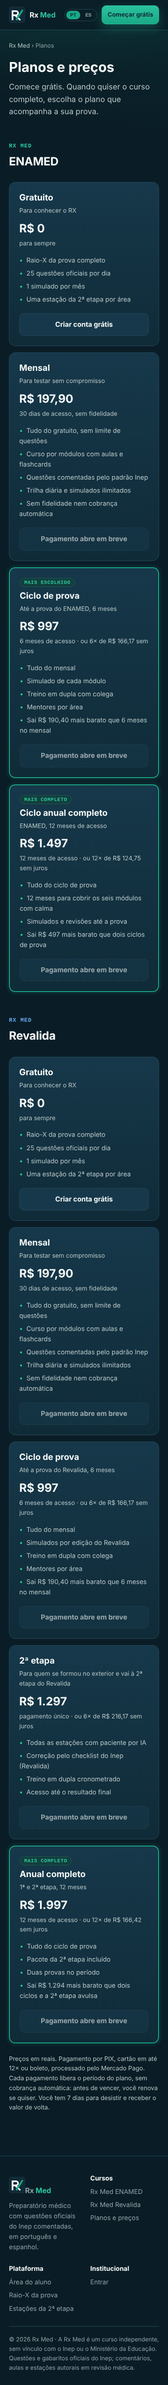
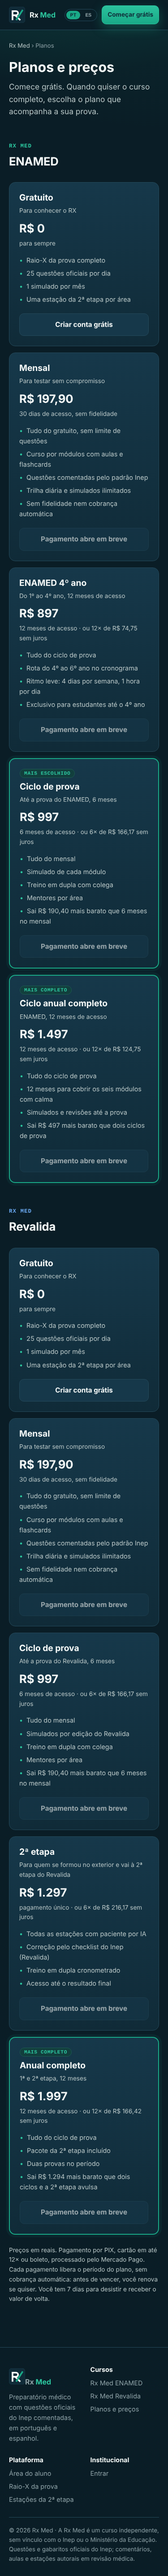
ENAMED 4º ano: rota no cronograma, plano próprio e seção no site
- Objetivo do aluno no cronograma (ENAMED 6º ano, ENAMED 4º ano, Revalida), definido pela ficha do cadastro
- 4º ano: ritmo leve sugerido, aulas na ordem de incidência e painel da rota do 4º ao 6º ano com metas
- Plano ENAMED 4º ano (12 meses, R$ 897, até 12×), só para quem está do 1º ao 4º ano; checado no servidor
- /api/eu informa a etapa; site: seção sobre a MP 1.370/2026, plano nas grades e perguntas frequentes

Claude-Session: https://claude.ai/code/session_01XC3RWuP12k3CEFXbjwtph3

diff --git a/app/src/telas/Cronograma.jsx b/app/src/telas/Cronograma.jsx
@@ -3,7 +3,8 @@
 // em que vencem, o atraso de ontem volta hoje e tudo cabe no tempo que o aluno disse ter.
 import { useState, useMemo } from '../react.js';
 import { useApp, Icone } from '../componentes.jsx';
-import { montarSemana, configDoAluno, CONFIG_PADRAO } from '../cronograma.js';
+import { montarSemana, configDoAluno, CONFIG_PADRAO, OBJETIVOS, rotaQuartoAno } from '../cronograma.js';
+import { modulosDoCurso } from '../modulos.js';
 import { diasAte } from '../trilha.js';
 import { useTrilha, iniciarPlano } from './Trilha.jsx';
 import { DIA, plural } from '../util.js';
@@ -65,11 +66,17 @@ function Configurar({ fechar }) {
   const [metaAcerto, setMetaAcerto] = useState(cfg.metaAcerto);
   const [metaDiaria, setMetaDiaria] = useState(progresso.trilha.metaDiaria || 20);
   const [dataProva, setDataProva] = useState(progresso.trilha.dataProva || '');
+  const [objetivo, setObjetivo] = useState(progresso.trilha.objetivo || 'enamed6');
+  const escolherObjetivo = (o) => {
+    setObjetivo(o);
+    const r = OBJETIVOS[o].ritmo;
+    if (r) { setDias(r.diasEstudo); setMinutos(r.minutosDia); setMetaDiaria(r.metaDiaria); setMetaAcerto(r.metaAcerto); }
+  };
   const alternar = (d) => setDias((x) => (x.includes(d) ? x.filter((y) => y !== d) : [...x, d].sort()));
   const salvar = () => {
     despachar({ tipo: 'configurarTrilha', dados: {
       cronograma: { ...(progresso.trilha.cronograma || {}), diasEstudo: dias.length ? dias : CONFIG_PADRAO.diasEstudo, minutosDia: minutos, metaAcerto, desde: progresso.trilha.cronograma?.desde || Date.now() },
-      metaDiaria, dataProva, ...(metaDiaria !== progresso.trilha.metaDiaria ? { plano: null } : {}),
+      metaDiaria, dataProva, objetivo, ...(metaDiaria !== progresso.trilha.metaDiaria ? { plano: null } : {}),
     } });
     fechar();
   };
@@ -78,6 +85,13 @@ function Configurar({ fechar }) {
       <div className="dialogo config-estudos" role="dialog" aria-modal="true" aria-labelledby="titulo-config">
         <h2 id="titulo-config">{t('Configurar estudos')}</h2>
         <p className="mudo">{t('O cronograma se ajusta a estes números: nada passa do tempo que você tem por dia.')}</p>
+        <div className="campo">
+          <span className="rotulo-campo">{t('Seu objetivo')}</span>
+          <div className="segmentado" role="group" aria-label={t('Seu objetivo')}>
+            {Object.entries(OBJETIVOS).map(([k, o]) => <button key={k} className={objetivo === k ? 'ativo' : ''} aria-pressed={objetivo === k} onClick={() => escolherObjetivo(k)}>{t(o.nome)}</button>)}
+          </div>
+          {objetivo === 'enamed4' && <p className="mudo pequeno">{t('Ritmo sugerido para o 4º ano: 4 dias por semana, 1 hora por dia. A prova do 4º ano é formativa; a do 6º ano é a que conta para o CRM e para o Enare.')}</p>}
+        </div>
         <div className="campo">
           <span className="rotulo-campo">{t('Dias de estudo')}</span>
           <div className="segmentado dias-semana" role="group" aria-label={t('Dias de estudo')}>
@@ -151,6 +165,8 @@ export default function Cronograma() {
         <button className="botao" onClick={() => setConfig(true)}><Icone nome="ajustes" /> {t('Configurar estudos')}</button>
       </header>
 
+      {progresso.trilha.objetivo === 'enamed4' && <RotaQuartoAno />}
+
       <section className="resumo-semana">
         <div className="cartao">
           <span className="sobretitulo">{t('Esta semana')}</span>
@@ -202,5 +218,39 @@ export default function Cronograma() {
       <p className="mudo pequeno legenda-chamas"><Icone nome="chama" tamanho={13} /> {t('Incidência: quanto a especialidade da aula pesa nas provas do Inep.')}</p>
       {config && <Configurar fechar={() => setConfig(false)} />}
     </div>
+  );
+}
+
+/** Rota do 4º ao 6º ano: onde o aluno está e o que falta em cada fase. */
+function RotaQuartoAno() {
+  const { banco, progresso } = useApp();
+  const rota = useMemo(() => rotaQuartoAno(progresso, banco, modulosDoCurso(banco, progresso)), [banco, progresso]);
+  return (
+    <section className="cartao rota-4ano" aria-label={t('Rota ENAMED 4º ano')}>
+      <div className="rota-cab">
+        <div>
+          <span className="sobretitulo">{t('Rota ENAMED 4º ano')}</span>
+          <h2>{t('Do 4º ao 6º ano, sem correria')}</h2>
+          <p className="mudo pequeno">{t('O ENAMED do 4º ano é formativo e não conta para a residência. Ele mostra onde você está; a prova do 6º ano é a que vale para o CRM e para o Enare.')}</p>
+        </div>
+      </div>
+      <ol className="rota-fases">
+        {rota.fases.map((f, i) => (
+          <li key={f.id} className={i === rota.atual ? 'atual' : i < rota.atual ? 'feita' : ''}>
+            <span className="rota-num">{i < rota.atual ? <Icone nome="check" tamanho={14} /> : i + 1}</span>
+            <div>
+              <strong>{t(f.titulo)}</strong>
+              <p className="mudo pequeno">{t(f.texto)}</p>
+              {f.metas.map((m) => (
+                <div key={m.rotulo} className="rota-meta">
+                  <span className="pequeno">{t(m.rotulo)} <span className="mudo">· {m.detalhe}</span></span>
+                  <span className="mini-barra"><span style={{ width: `${Math.round(m.feito * 100)}%` }} /></span>
+                </div>
+              ))}
+            </div>
+          </li>
+        ))}
+      </ol>
+    </section>
   );
 }

diff --git a/app/src/cronograma.js b/app/src/cronograma.js
@@ -7,6 +7,31 @@ import { modulosDoCurso, SEGUNDOS_POR_QUESTAO } from './modulos.js';
 import { montarBaralho } from './flashcards.js';
 
 export const CONFIG_PADRAO = { diasEstudo: [1, 2, 3, 4, 5, 6], minutosDia: 120, metaAcerto: 65 };
+// Objetivo do aluno: muda a ordem do estudo e sugere um ritmo. O ENAMED do 4º ano é formativo e prepara a prova do 6º ano.
+export const OBJETIVOS = {
+  enamed6: { nome: 'ENAMED (6º ano)', ritmo: null },
+  enamed4: { nome: 'ENAMED 4º ano', ritmo: { diasEstudo: [1, 3, 5, 6], minutosDia: 60, metaDiaria: 20, metaAcerto: 60 } },
+  revalida: { nome: 'Revalida', ritmo: null },
+};
+
+/** Rota do 4º ao 6º ano: três fases com metas medidas pelo progresso real. */
+export function rotaQuartoAno(estado, banco, modulos) {
+  const validas = banco.questoes.filter((q) => !q.anulada);
+  const resolvidas = validas.filter((q) => (estado.respostas[q.id] || []).length).length;
+  const fracaoBanco = validas.length ? resolvidas / validas.length : 0;
+  const simulados = estado.simulados.length;
+  const modulosFeitos = modulos.filter((m) => m.status === 'concluido').length;
+  const fases = [
+    { id: 'base', titulo: '4º ano · base do que mais cai', texto: 'Diagnóstico, aulas e questões dos temas de maior incidência, num ritmo leve.',
+      metas: [{ rotulo: 'Banco resolvido', feito: Math.min(fracaoBanco / 0.3, 1), detalhe: `${Math.round(fracaoBanco * 100)}% de 30%` }, { rotulo: 'Simulados', feito: Math.min(simulados / 2, 1), detalhe: `${Math.min(simulados, 2)} de 2` }] },
+    { id: 'modulos', titulo: '5º ano · os seis módulos completos', texto: 'Cada grande área fechada com o simulado do módulo e revisões espaçadas.',
+      metas: [{ rotulo: 'Módulos concluídos', feito: modulos.length ? modulosFeitos / modulos.length : 0, detalhe: `${modulosFeitos} de ${modulos.length}` }, { rotulo: 'Banco resolvido', feito: Math.min(fracaoBanco / 0.7, 1), detalhe: `${Math.round(fracaoBanco * 100)}% de 70%` }] },
+    { id: 'prova', titulo: '6º ano · reta final da prova que conta', texto: 'Banco completo, simulados no tempo real e revisão dos erros. É esta prova que vale para o CRM e para o Enare.',
+      metas: [{ rotulo: 'Banco resolvido', feito: fracaoBanco, detalhe: `${Math.round(fracaoBanco * 100)}%` }, { rotulo: 'Simulados', feito: Math.min(simulados / 8, 1), detalhe: `${Math.min(simulados, 8)} de 8` }] },
+  ].map((f) => ({ ...f, fracao: f.metas.reduce((x, m) => x + m.feito, 0) / f.metas.length }));
+  const atual = fases.findIndex((f) => f.fracao < 1);
+  return { fases, atual: atual < 0 ? fases.length - 1 : atual };
+}
 const MIN_POR_QUESTAO = SEGUNDOS_POR_QUESTAO / 60;
 const MIN_POR_CARTAO = 0.4;
 const QUESTOES_SIMULADO = 30;
@@ -37,11 +62,13 @@ function atividadeDoDia(estado, dia) {
 }
 
 /** Ordem das aulas: área mais fraca e especialidade mais cobrada primeiro. */
-function ordemDasAulas(banco, profs) {
+function ordemDasAulas(banco, profs, objetivo) {
   const porEsp = Object.fromEntries(profs.map((p) => [p.especialidade, p]));
+  // No 4º ano a base vem primeiro: os temas que mais caem, sem castigar a área ainda não estudada.
   const valor = (a) => {
     const p = porEsp[a.especialidade];
-    return p ? p.peso * (1.2 - p.media) : 0.01;
+    if (!p) return 0.01;
+    return objetivo === 'enamed4' ? p.peso : p.peso * (1.2 - p.media);
   };
   return [...banco.aulas].sort((a, b) => valor(b) - valor(a));
 }
@@ -68,7 +95,7 @@ export function montarSemana(estado, banco, profs, semanaRef = Date.now(), agora
   // de hoje em diante (uma por dia), na ordem de prioridade.
   const aulasPorDia = new Map();
   const pendentes = [];
-  for (const a of ordemDasAulas(banco, profs)) {
+  for (const a of ordemDasAulas(banco, profs, estado.trilha.objetivo)) {
     const feitaEm = estado.aulas[a.id];
     if (feitaEm) {
       const dia = dias.find((d) => noDia(feitaEm, d));

diff --git a/app/src/es.js b/app/src/es.js
@@ -1525,4 +1525,20 @@ export default {
   "Não ouvi nada. Toque no microfone e fale de novo.": "No escuché nada. Toque el micrófono y hable de nuevo.",
   "Nenhum microfone encontrado.": "No se encontró ningún micrófono.",
   "O reconhecimento de voz precisa de internet neste navegador.": "El reconocimiento de voz necesita internet en este navegador.",
+  // ENAMED 4º ano
+  "Seu objetivo": "Su objetivo",
+  "ENAMED (6º ano)": "ENAMED (6.º año)",
+  "ENAMED 4º ano": "ENAMED 4.º año",
+  "Ritmo sugerido para o 4º ano: 4 dias por semana, 1 hora por dia. A prova do 4º ano é formativa; a do 6º ano é a que conta para o CRM e para o Enare.": "Ritmo sugerido para el 4.º año: 4 días por semana, 1 hora por día. El examen del 4.º año es formativo; el del 6.º año es el que cuenta para el CRM y el Enare.",
+  "Rota ENAMED 4º ano": "Ruta ENAMED 4.º año",
+  "Do 4º ao 6º ano, sem correria": "Del 4.º al 6.º año, sin apuros",
+  "O ENAMED do 4º ano é formativo e não conta para a residência. Ele mostra onde você está; a prova do 6º ano é a que vale para o CRM e para o Enare.": "El ENAMED del 4.º año es formativo y no cuenta para la residencia. Muestra dónde está usted; el examen del 6.º año es el que vale para el CRM y el Enare.",
+  "4º ano · base do que mais cai": "4.º año · base de lo que más aparece",
+  "Diagnóstico, aulas e questões dos temas de maior incidência, num ritmo leve.": "Diagnóstico, clases y preguntas de los temas de mayor incidencia, a un ritmo ligero.",
+  "5º ano · os seis módulos completos": "5.º año · los seis módulos completos",
+  "Cada grande área fechada com o simulado do módulo e revisões espaçadas.": "Cada gran área cerrada con el simulacro del módulo y repasos espaciados.",
+  "6º ano · reta final da prova que conta": "6.º año · recta final del examen que cuenta",
+  "Banco completo, simulados no tempo real e revisão dos erros. É esta prova que vale para o CRM e para o Enare.": "Banco completo, simulacros con el tiempo real y repaso de errores. Este es el examen que vale para el CRM y el Enare.",
+  "Banco resolvido": "Banco resuelto",
+  "Módulos concluídos": "Módulos concluidos",
 };

diff --git a/servidor/src/rotas/autenticacao.js b/servidor/src/rotas/autenticacao.js
@@ -33,7 +33,7 @@ export function carregarUsuario(banco, config) {
     const token = lerCookie(req, nomeCookie(config));
     if (token && token.length < 100) {
       const linha = await banco.um(
-        `SELECT u.id, u.nome, u.email, u.papel, u.cpf, u.totp_ativo, s.token_hash, s.mfa_ok, s.ultimo_uso
+        `SELECT u.id, u.nome, u.email, u.papel, u.cpf, u.totp_ativo, u.etapa, s.token_hash, s.mfa_ok, s.ultimo_uso
            FROM sessoes s JOIN usuarios u ON u.id = s.usuario_id
           WHERE s.token_hash = $1 AND s.expira_em > now() AND u.excluido_em IS NULL`, [hashToken(token)]);
       if (linha) {
@@ -152,8 +152,8 @@ export function rotasAutenticacao({ banco, config, correio, limitar }) {
 
   r.get('/eu', async (req, res) => {
     if (!req.usuario) return res.json({ usuario: null, acesso: { ativo: false, plano: 'gratis' } });
-    const { id, nome, email, papel, totp_ativo: totp } = req.usuario;
-    res.json({ usuario: { id, nome, email, papel, totpAtivo: totp, precisa2fa: totp && !req.sessao.mfaOk }, acesso: await situacaoDoAluno(banco, id) });
+    const { id, nome, email, papel, totp_ativo: totp, etapa } = req.usuario;
+    res.json({ usuario: { id, nome, email, papel, etapa: etapa || null, totpAtivo: totp, precisa2fa: totp && !req.sessao.mfaOk }, acesso: await situacaoDoAluno(banco, id) });
   });
 
   // ---- Recuperação de senha: sempre responde igual, para não revelar quais e-mails têm conta.

diff --git a/servidor/teste/servidor.test.js b/servidor/teste/servidor.test.js
@@ -679,3 +679,17 @@ test('admin: eventos para estande e prospecção das faculdades do Paraguai', as
   await aluno.post('/api/cadastro', { nome: 'Rui Evento', email: 'rui-evento@rx.test', senha: 'senha-forte-1', aceite: true, ...FICHA });
   assert.equal((await aluno.get('/api/admin/eventos')).status, 403, 'aluno não vê eventos');
 });
+
+test('plano ENAMED 4º ano: só para quem está até o 4º ano', async () => {
+  const sexto = cliente();
+  await sexto.post('/api/cadastro', { nome: 'Ana Sexto', email: 'ana-sexto@rx.test', senha: 'senha-forte-1', aceite: true, ...FICHA, etapa: '6' });
+  const negado = await sexto.post('/api/checkout/pagar', { plano: 'enamed-4ano', metodo: 'pix', cpf: '52998224725' });
+  assert.equal(negado.status, 403);
+  assert.equal(negado.corpo.codigo, 'plano_etapa');
+  const eu = (await sexto.get('/api/eu')).corpo;
+  assert.equal(eu.usuario.etapa, '6', '/api/eu informa a etapa da ficha');
+  const quarto = cliente();
+  await quarto.post('/api/cadastro', { nome: 'Bia Quarto', email: 'bia-quarto@rx.test', senha: 'senha-forte-1', aceite: true, ...FICHA, etapa: '4' });
+  const ok = await quarto.post('/api/checkout/pagar', { plano: 'enamed-4ano', metodo: 'pix', cpf: '52998224725' });
+  assert.notEqual(ok.status, 403, JSON.stringify(ok.corpo));
+});

diff --git a/app/src/estilo.css b/app/src/estilo.css
@@ -1481,3 +1481,15 @@ h1, h2, h3 { font-family: var(--f-display); }
   .atalho-pratica strong { font-size: var(--t-2); }
   .atalho-pratica .mudo { display: none; }
 }
+
+/* Rota ENAMED 4º ano (cronograma) */
+.rota-4ano { margin-bottom: 18px; }
+.rota-4ano h2 { margin: 4px 0 6px; font-size: 1.25rem; }
+.rota-fases { list-style: none; margin: 16px 0 0; padding: 0; display: grid; grid-template-columns: repeat(3, 1fr); gap: 12px; }
+.rota-fases li { display: flex; gap: 12px; padding: 14px; border: 1px solid var(--linha); border-radius: 12px; }
+.rota-fases li.atual { border-color: var(--acento); background: var(--acento-suave); }
+.rota-fases li.feita { opacity: .75; }
+.rota-num { flex: none; display: grid; place-items: center; width: 26px; height: 26px; border-radius: 50%; background: var(--folha-2); border: 1px solid var(--linha); font-weight: 700; font-size: .85rem; }
+.rota-fases li.atual .rota-num { background: var(--acento); color: #06141B; border-color: var(--acento); }
+.rota-meta { display: grid; gap: 4px; margin-top: 8px; }
+@media (max-width: 860px) { .rota-fases { grid-template-columns: 1fr; } }

diff --git a/servidor/web/admin.js b/servidor/web/admin.js
@@ -5,7 +5,7 @@ import { eventos } from './eventos.js';
 const ETAPAS = { 1: '1º ano', 2: '2º ano', 3: '3º ano', 4: '4º ano', 5: '5º ano (internato)', 6: '6º ano (internato)', formado: 'Formado no Brasil', exterior: 'Formado no exterior' };
 const SEXO = { masculino: 'Masculino', feminino: 'Feminino' };
 
-const NOMES = { mensal: 'Mensal', ciclo: 'Ciclo de prova', 'anual-enamed': 'Ciclo anual completo (ENAMED)', 'segunda-etapa': '2ª etapa', anual: 'Anual completo' };
+const NOMES = { mensal: 'Mensal', ciclo: 'Ciclo de prova', 'enamed-4ano': 'ENAMED 4º ano', 'anual-enamed': 'Ciclo anual completo (ENAMED)', 'segunda-etapa': '2ª etapa', anual: 'Anual completo' };
 const SIT = { ativo: 'Ativo', vencendo: 'Vencendo', expirado: 'Inativo', gratuito: 'Gratuito' };
 const STATUS = { aprovado: 'Aprovado', pendente: 'Pendente', recusado: 'Recusado', reembolsado: 'Reembolsado', expirado: 'Expirado', cancelado: 'Cancelado', contestado: 'Contestado' };
 const metodo = (m, n) => (m === 'cartao' ? `Cartão${n > 1 ? ` ${n}×` : ''}` : m.toUpperCase());

diff --git a/servidor/src/rotas/checkout.js b/servidor/src/rotas/checkout.js
@@ -58,6 +58,9 @@ export function rotasCheckout({ banco, config, planos, mp, correio, limitar }) {
     const plano = planos.porId[req.body?.plano];
     const metodo = req.body?.metodo;
     if (!plano) return res.status(400).json({ erro: 'Plano inválido.' });
+    if (plano.etapas && !plano.etapas.includes(String(req.usuario.etapa || ''))) {
+      return res.status(403).json({ erro: `O plano ${plano.nome} é exclusivo para estudantes do 1º ao 4º ano. Escolha outro plano ou fale com o suporte para corrigir a sua ficha.`, codigo: 'plano_etapa' });
+    }
     if (!METODOS.includes(metodo)) return res.status(400).json({ erro: 'Forma de pagamento inválida.' });
     const cpf = String(req.body?.cpf || req.usuario.cpf || '').replace(/\D/g, '');
     if (!cpfValido(cpf)) return res.status(400).json({ erro: 'Informe um CPF válido.' });

diff --git a/app/src/App.jsx b/app/src/App.jsx
@@ -101,6 +101,13 @@ export default function App() {
     })();
     return () => { vivo = false; };
   }, []);
+  // Objetivo inicial pela ficha do cadastro: até o 4º ano começa na rota do ENAMED 4º ano; formado no exterior, no Revalida.
+  useEffect(() => {
+    const etapa = conta.usuario?.etapa;
+    if (!etapa || progresso.trilha.objetivo) return;
+    const objetivo = ['1', '2', '3', '4'].includes(etapa) ? 'enamed4' : etapa === 'exterior' ? 'revalida' : 'enamed6';
+    despachar({ tipo: 'configurarTrilha', dados: { objetivo } });
+  }, [conta.usuario?.etapa]);
   useEffect(() => { setSalvo(salvarLocal(progresso)); }, [progresso]);
   useEffect(() => { definirIdioma(idioma); }, []);
   const trocarIdioma = (id) => { definirIdioma(id); setIdioma(id); };

diff --git a/app/src/telas/Perfil.jsx b/app/src/telas/Perfil.jsx
@@ -9,7 +9,7 @@ import { ultimaResposta } from '../progresso.js';
 import { t, idiomaAtual } from '../i18n.js';
 import { CartaoIndique } from './Indique.jsx';
 
-const NOMES_PLANO = { mensal: 'Mensal', ciclo: 'Ciclo de prova', 'anual-enamed': 'Ciclo anual completo (ENAMED)', 'segunda-etapa': '2ª etapa', anual: 'Anual completo' };
+const NOMES_PLANO = { mensal: 'Mensal', ciclo: 'Ciclo de prova', 'enamed-4ano': 'ENAMED 4º ano', 'anual-enamed': 'Ciclo anual completo (ENAMED)', 'segunda-etapa': '2ª etapa', anual: 'Anual completo' };
 const DIAS = ['Dom', 'Seg', 'Ter', 'Qua', 'Qui', 'Sex', 'Sáb'];
 
 export default function Perfil() {

diff --git a/servidor/src/planos.js b/servidor/src/planos.js
@@ -16,6 +16,7 @@ export function carregarPlanos(arquivo) {
     valorCentavos: usarFundador && p.precoFundador < p.preco ? p.precoFundador : p.preco,
     parcelasMax: p.parcelas || 1,
     duracaoMeses: p.duracaoMeses,
+    etapas: Array.isArray(p.etapas) ? p.etapas.map(String) : null,
   }));
   for (const p of planos) if (!Number.isInteger(p.duracaoMeses) || p.duracaoMeses < 1) throw new Error(`planos.json: plano ${p.id} sem duracaoMeses`);
   const porId = Object.fromEntries(planos.map((p) => [p.id, p]));
